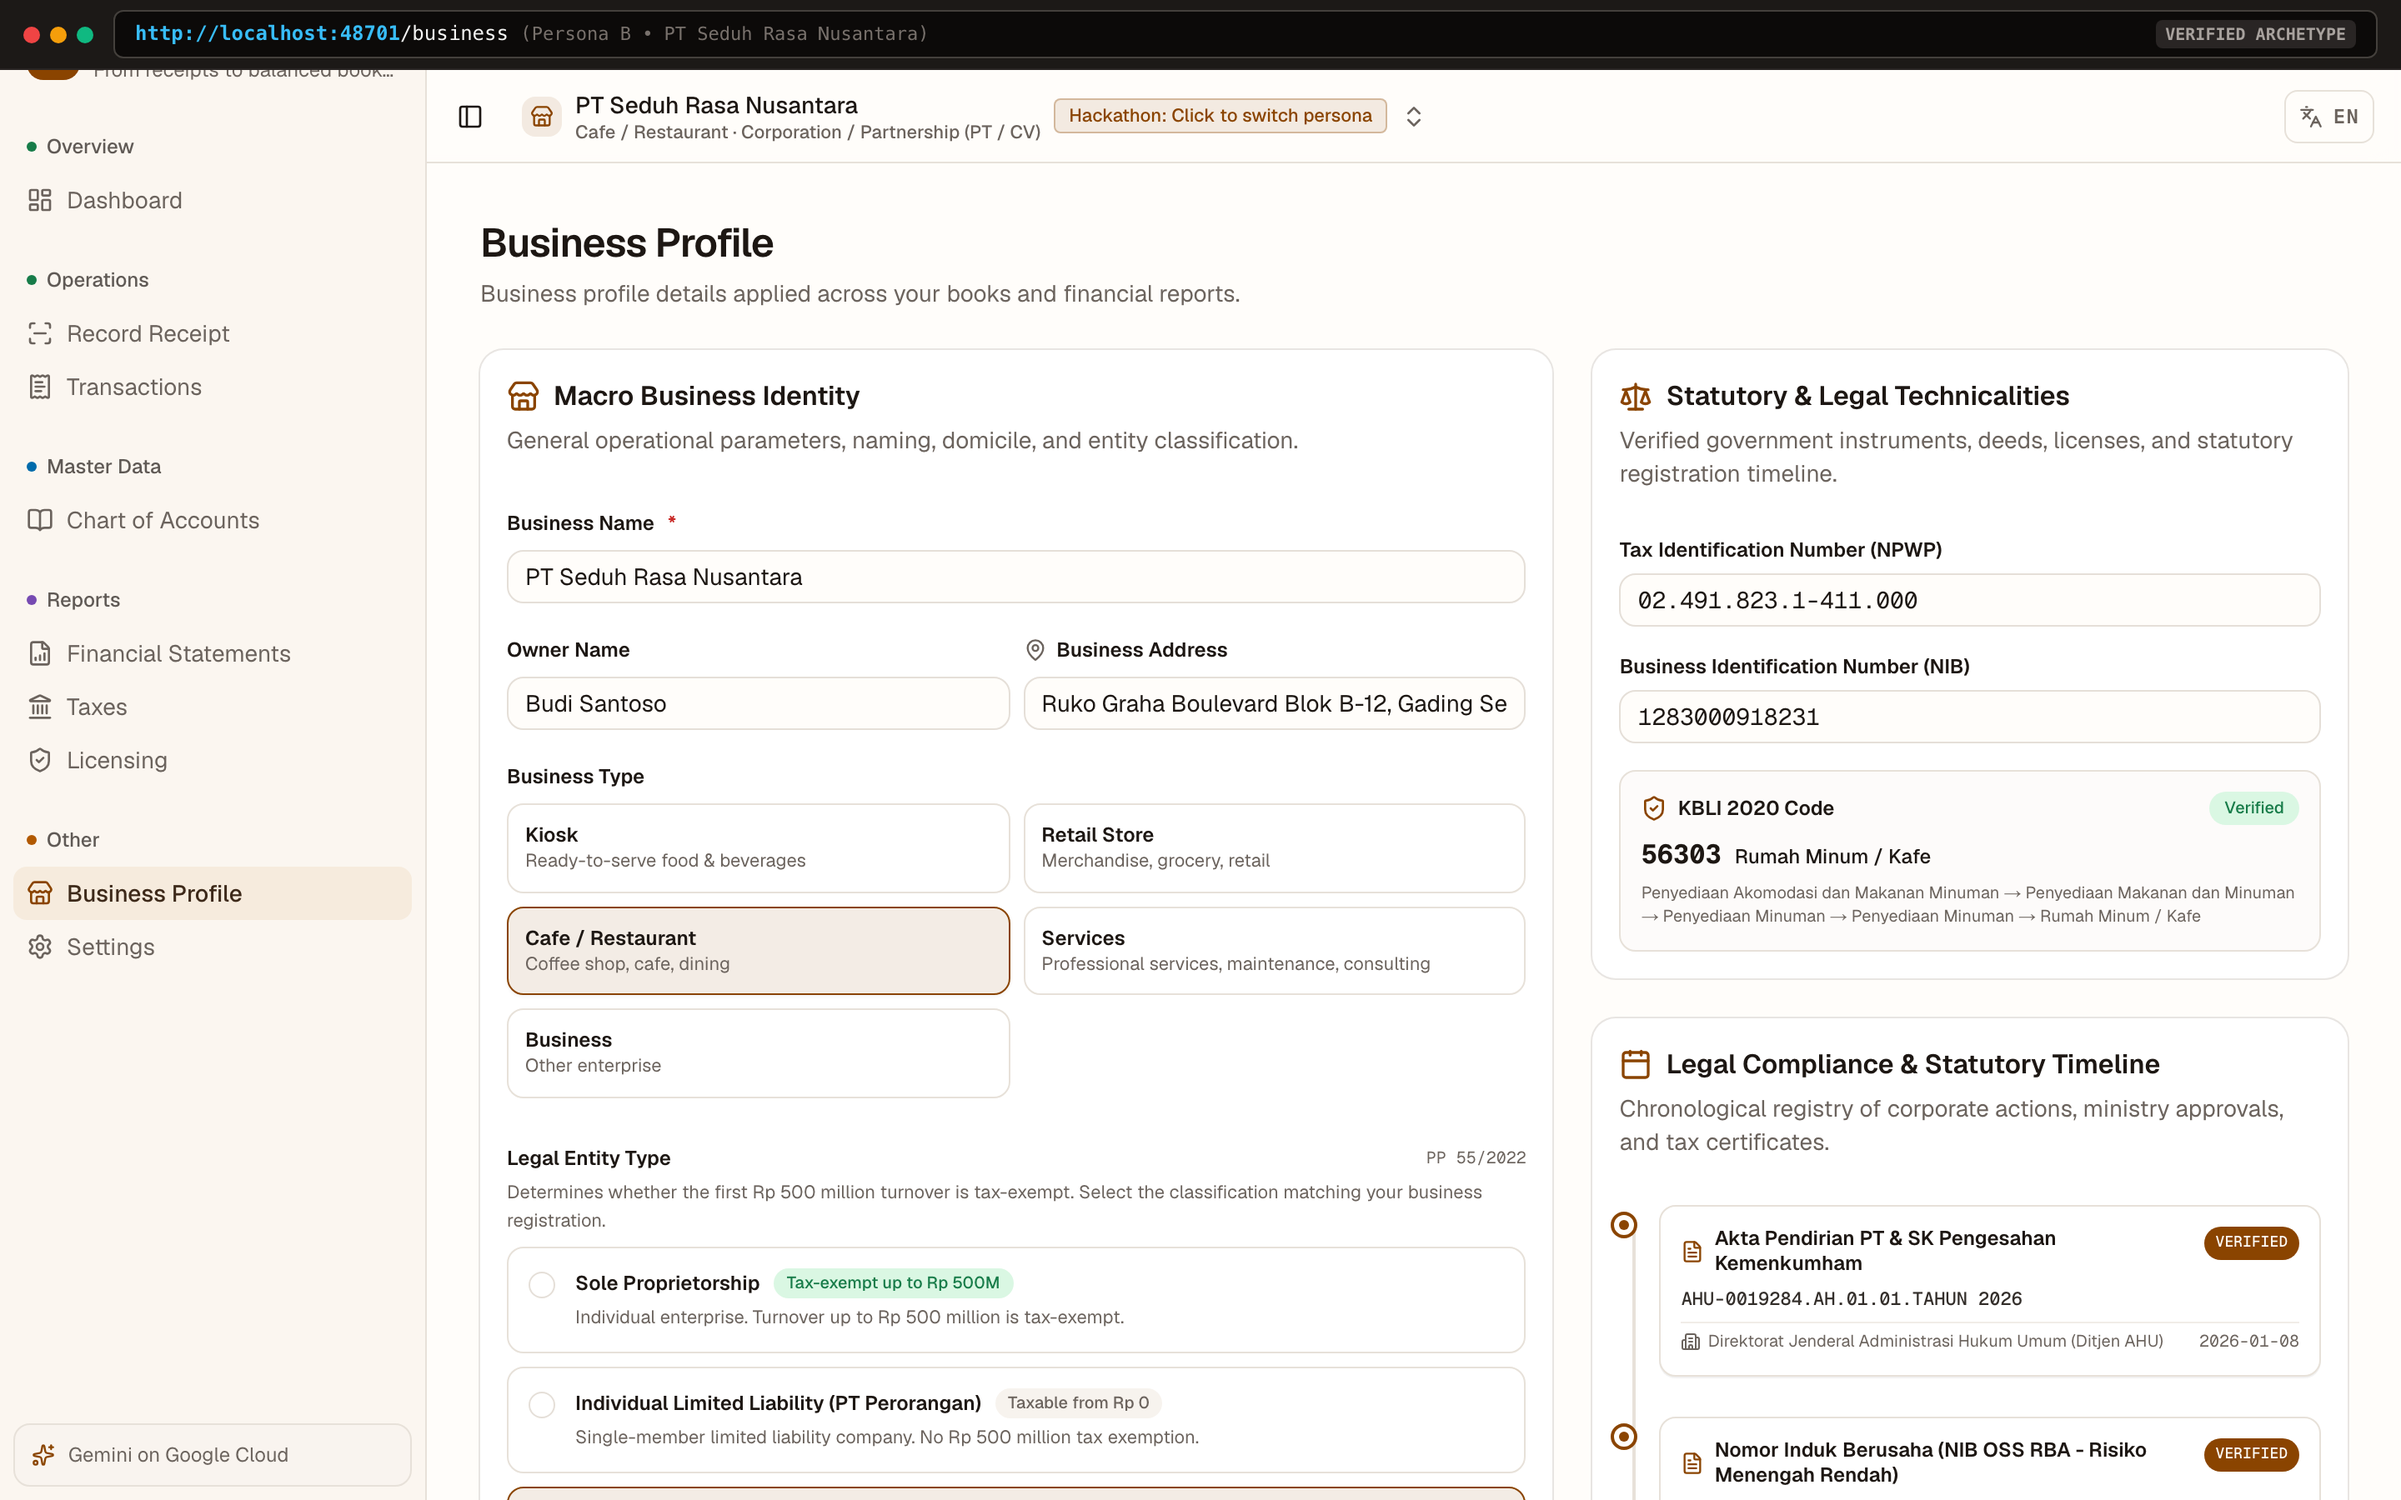
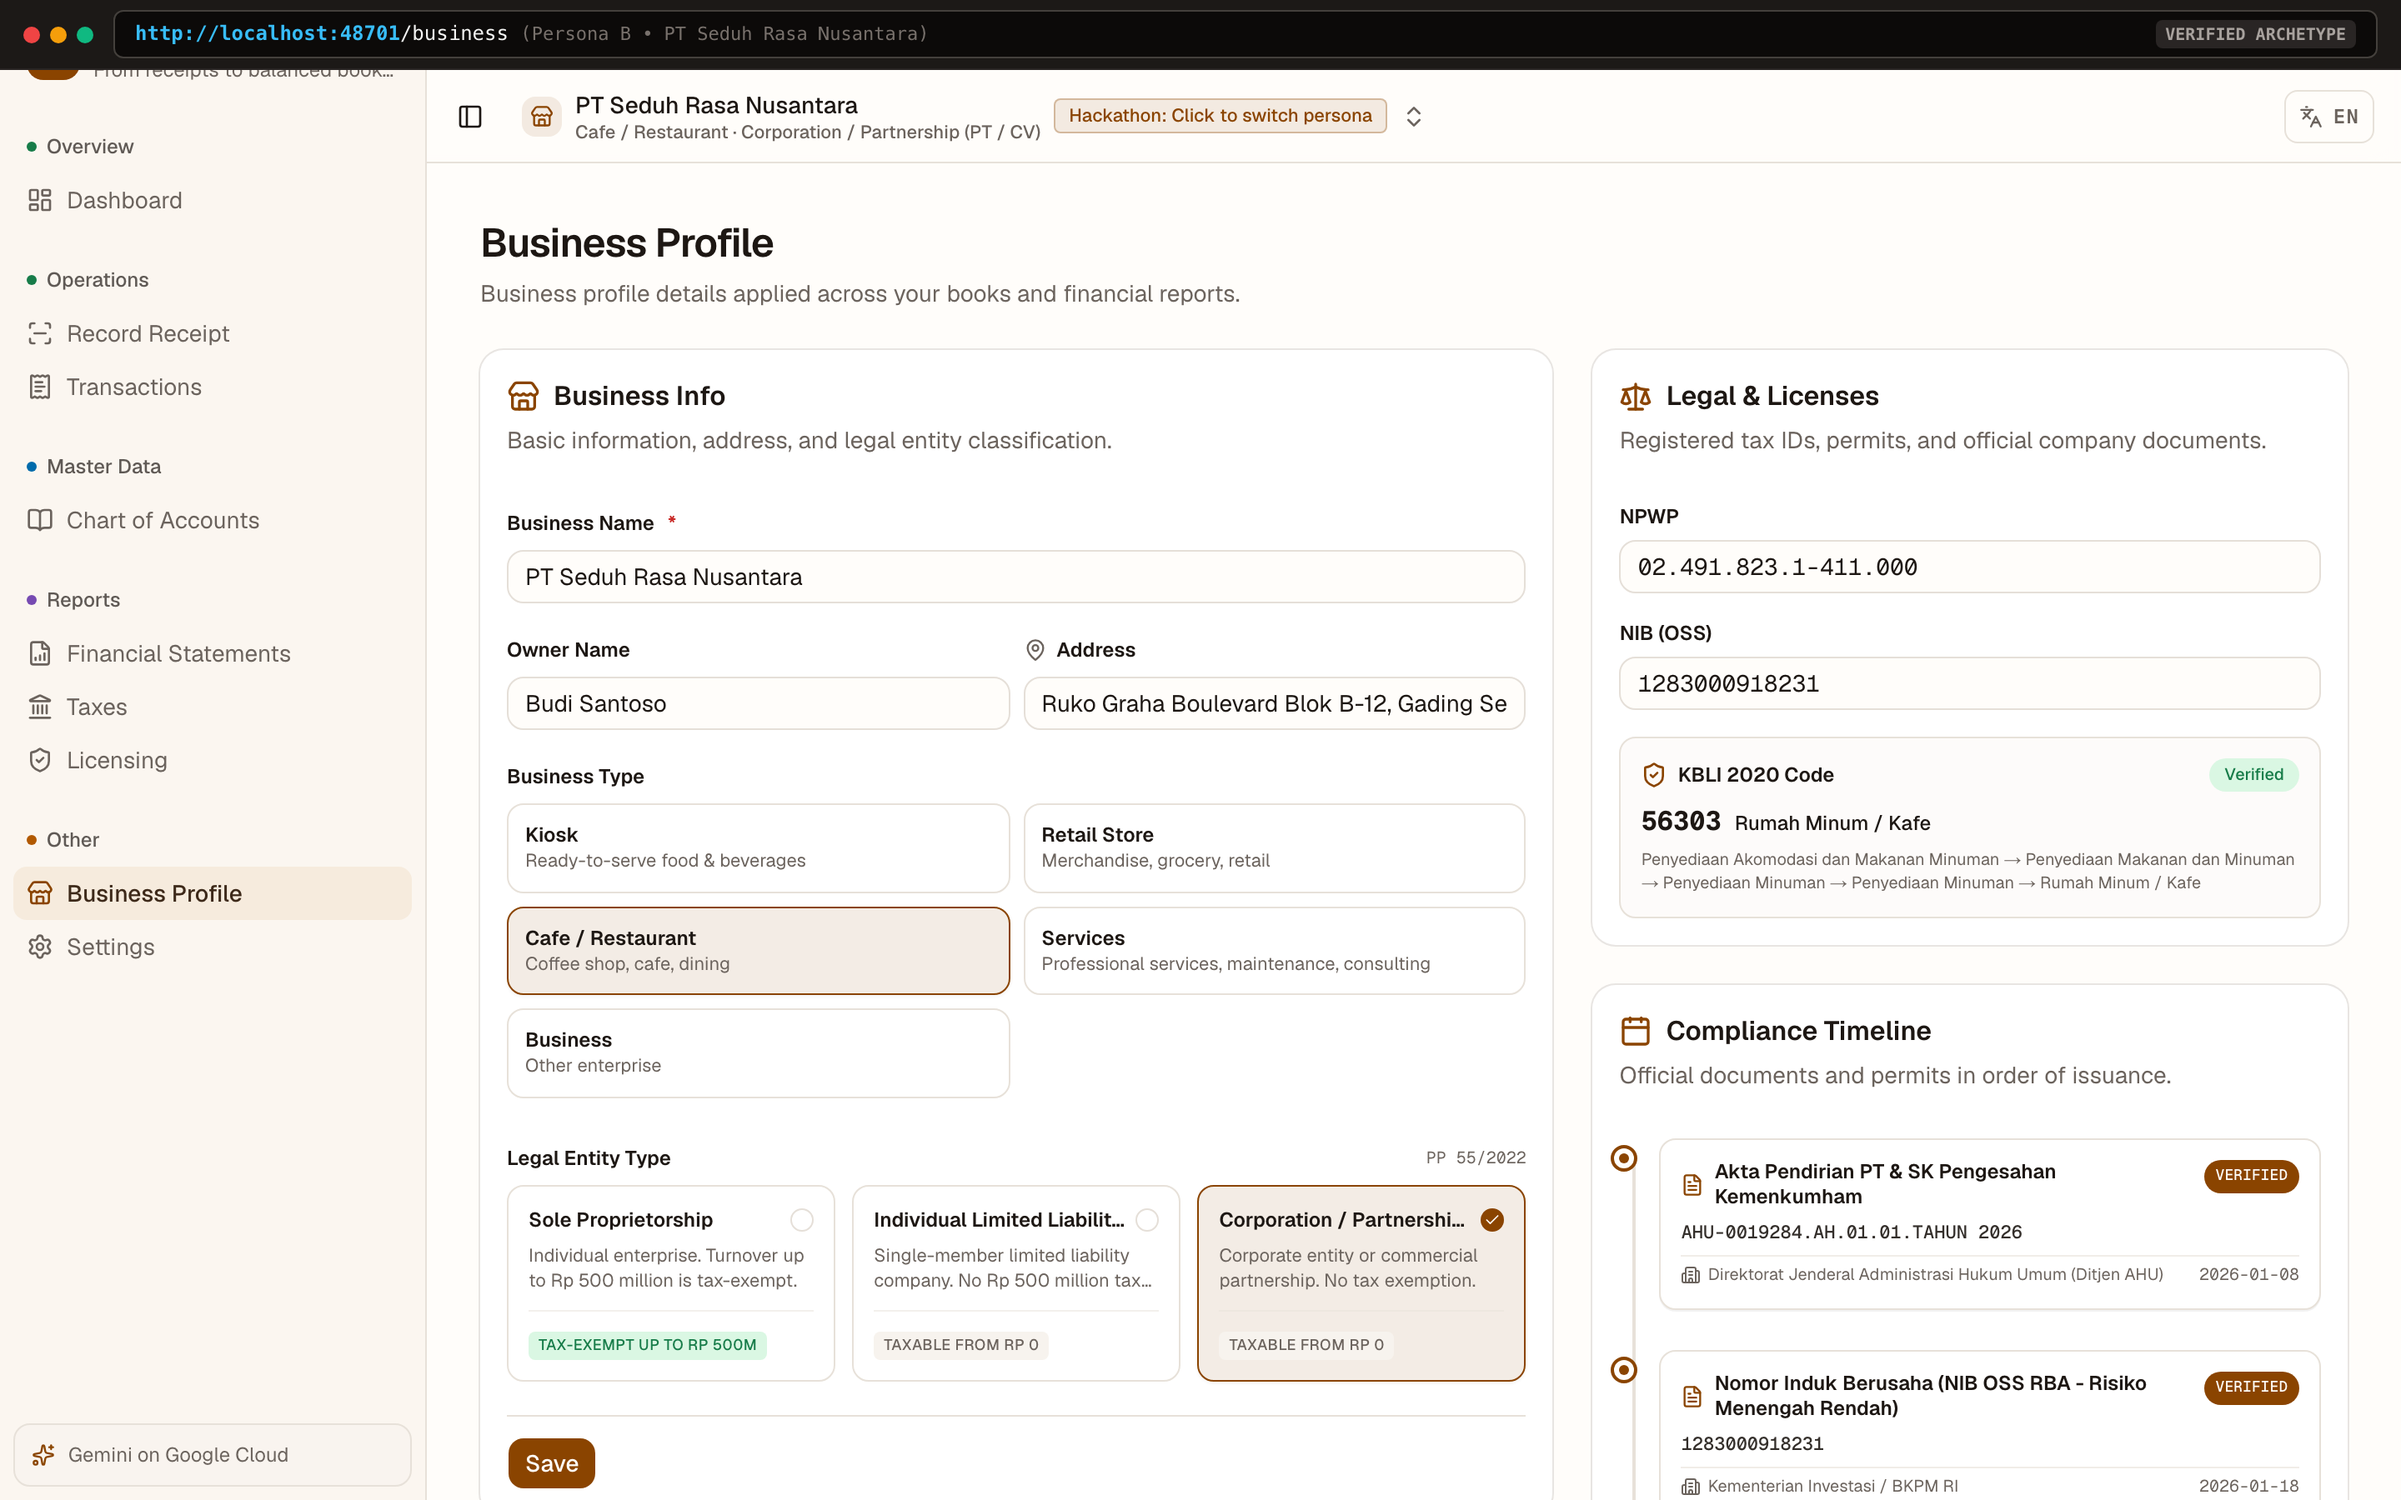
refactor(business): streamline copy and arrange legal entity options as horizontal desktop cards

diff --git a/web/src/app/(app)/business/page.tsx b/web/src/app/(app)/business/page.tsx
@@ -216,12 +216,9 @@ export default function UsahaPage() {
                   </Label>
                   <span className="text-[10px] text-muted-foreground font-mono">PP 55/2022</span>
                 </div>
-                <p className="-mt-1 text-[11px] text-muted-foreground leading-normal">
-                  {copy.usaha.entityHint}
-                </p>
                 <div
                   id="entity-group"
-                  className="grid gap-2"
+                  className="grid grid-cols-1 md:grid-cols-3 gap-2.5"
                   role="radiogroup"
                   aria-label={copy.usaha.entityLabel}
                 >
@@ -237,49 +234,48 @@ export default function UsahaPage() {
                         tabIndex={active ? 0 : -1}
                         onClick={() => setEntity(option.id)}
                         className={cn(
-                          "flex items-start gap-3 rounded-lg border p-3 text-left transition cursor-pointer",
+                          "flex flex-col justify-between rounded-lg border p-3 text-left transition cursor-pointer relative",
                           active
                             ? "border-primary bg-primary/10 shadow-xs"
                             : "hover:bg-muted/50 border-border bg-card",
                         )}
                       >
-                        <span
-                          className={cn(
-                            "mt-0.5 grid size-4 shrink-0 place-items-center rounded-full border",
-                            active ? "border-primary bg-primary" : "border-input",
-                          )}
-                        >
-                          {active && <Check className="size-3 text-primary-foreground" />}
-                        </span>
-                        <span className="min-w-0 flex-1">
-                          <span className="flex flex-wrap items-center gap-2">
-                            <span className="text-xs font-semibold">
+                        <div className="space-y-1.5">
+                          <div className="flex items-center justify-between gap-1">
+                            <span className="text-xs font-semibold line-clamp-1">
                               {copy.entityLabels?.[option.id] ?? option.label}
                             </span>
                             <span
                               className={cn(
-                                "rounded-full px-2 py-0.5 text-[10px] font-medium",
-                                option.exemption
-                                  ? "bg-tone-hijau-bg text-tone-hijau"
-                                  : "bg-muted text-muted-foreground",
+                                "grid size-3.5 shrink-0 place-items-center rounded-full border",
+                                active ? "border-primary bg-primary" : "border-input",
                               )}
                             >
-                              {option.exemption
-                                ? copy.usaha.entityExempt
-                                : copy.usaha.entityTaxed}
+                              {active && <Check className="size-2.5 text-primary-foreground" />}
                             </span>
-                          </span>
-                          <span className="mt-1 block text-[11px] text-muted-foreground">
+                          </div>
+                          <p className="text-[11px] text-muted-foreground leading-snug line-clamp-2">
                             {copy.usaha.entityHints?.[option.id] ?? option.hint}
+                          </p>
+                        </div>
+                        <div className="mt-2.5 pt-2 border-t border-border/50">
+                          <span
+                            className={cn(
+                              "inline-block rounded px-1.5 py-0.5 text-[9px] font-medium tracking-wide uppercase",
+                              option.exemption
+                                ? "bg-tone-hijau-bg text-tone-hijau"
+                                : "bg-muted text-muted-foreground",
+                            )}
+                          >
+                            {option.exemption
+                              ? copy.usaha.entityExempt
+                              : copy.usaha.entityTaxed}
                           </span>
-                        </span>
+                        </div>
                       </button>
                     );
                   })}
                 </div>
-                <p className="text-[10px] text-muted-foreground pt-1">
-                  {copy.usaha.entityCitation}
-                </p>
               </div>
 
               {/* Submit Buttons */}

diff --git a/web/src/lib/copy-en.ts b/web/src/lib/copy-en.ts
@@ -445,27 +445,27 @@ export const copyEn = {
     kbliNoneHint: "Configure in the Licensing section.",
     kbliInvalidated:
       "Business type changed; previously selected KBLI code was reset. Please reselect in Licensing.",
-    addressLabel: "Business Address",
+    addressLabel: "Address",
     addressPlaceholder: "Jl. Sudirman No. 10, Jakarta",
-    npwpLabel: "Tax Identification Number (NPWP)",
+    npwpLabel: "NPWP",
     npwpPlaceholder: "00.000.000.0-000.000",
-    nibLabel: "Business Identification Number (NIB)",
-    nibPlaceholder: "13-digit OSS RBA Number",
-    macroHeading: "Macro Business Identity",
-    macroSubtitle: "General operational parameters, naming, domicile, and entity classification.",
-    techHeading: "Statutory & Legal Technicalities",
-    techSubtitle: "Verified government instruments, deeds, licenses, and statutory registration timeline.",
-    timelineTitle: "Legal Compliance & Statutory Timeline",
-    timelineSubtitle: "Chronological registry of corporate actions, ministry approvals, and tax certificates.",
-    docType: "Document Type",
-    docNumber: "Reference Number",
-    docIssuer: "Issuing Authority",
-    docIssueDate: "Issued On",
-    docExpiry: "Valid Until",
+    nibLabel: "NIB (OSS)",
+    nibPlaceholder: "13-digit OSS RBA number",
+    macroHeading: "Business Info",
+    macroSubtitle: "Basic information, address, and legal entity classification.",
+    techHeading: "Legal & Licenses",
+    techSubtitle: "Registered tax IDs, permits, and official company documents.",
+    timelineTitle: "Compliance Timeline",
+    timelineSubtitle: "Official documents and permits in order of issuance.",
+    docType: "Document",
+    docNumber: "Number",
+    docIssuer: "Issuer",
+    docIssueDate: "Issued",
+    docExpiry: "Expires",
     statusVerified: "Verified",
     statusActive: "Active",
     statusInReview: "In Review",
-    emptyDocs: "No statutory documents filed. Complete corporate registration or select a verified archetype.",
+    emptyDocs: "No documents added yet. Select a demo persona or add licenses.",
   },
 
   // ── Landing page ──────────────────────────────────────────────────────────

diff --git a/web/src/lib/copy-id.ts b/web/src/lib/copy-id.ts
@@ -450,27 +450,27 @@ export const copyId = {
     kbliNoneHint: "Tentukan di halaman Perizinan.",
     kbliInvalidated:
       "Jenis usaha berubah, jadi kode KBLI sebelumnya dihapus. Tentukan ulang di Perizinan.",
-    addressLabel: "Alamat Usaha",
+    addressLabel: "Alamat",
     addressPlaceholder: "Jl. Sudirman No. 10, Jakarta",
-    npwpLabel: "Nomor Pokok Wajib Pajak (NPWP)",
+    npwpLabel: "NPWP",
     npwpPlaceholder: "00.000.000.0-000.000",
-    nibLabel: "Nomor Induk Berusaha (NIB)",
-    nibPlaceholder: "13 Digit NIB OSS RBA",
-    macroHeading: "Profil Makro Usaha",
-    macroSubtitle: "Parameter operasional umum, penamaan, domisili, dan klasifikasi badan usaha.",
-    techHeading: "Legalitas & Teknis Regulasi",
-    techSubtitle: "Dokumen hukum resmi terverifikasi, akta pendirian, sertifikasi, dan lini masa perizinan.",
-    timelineTitle: "Lini Masa Kepatuhan Hukum & Regulasi",
-    timelineSubtitle: "Catatan kronologis penerbitan izin, pengesahan kementerian, dan sertifikasi operasional.",
-    docType: "Jenis Dokumen",
-    docNumber: "Nomor Surat / SK",
-    docIssuer: "Instansi Penerbit",
+    nibLabel: "NIB (OSS)",
+    nibPlaceholder: "13 digit NIB OSS RBA",
+    macroHeading: "Informasi Usaha",
+    macroSubtitle: "Data dasar, alamat operasional, dan bentuk badan usaha.",
+    techHeading: "Legalitas & Izin",
+    techSubtitle: "Nomor pajak, izin berusaha, dan dokumen resmi.",
+    timelineTitle: "Lini Masa Dokumen",
+    timelineSubtitle: "Urutan dokumen dan perizinan resmi yang diterbitkan.",
+    docType: "Dokumen",
+    docNumber: "Nomor",
+    docIssuer: "Penerbit",
     docIssueDate: "Tanggal Terbit",
-    docExpiry: "Masa Berlaku",
+    docExpiry: "Berlaku Hingga",
     statusVerified: "Terverifikasi",
     statusActive: "Aktif",
-    statusInReview: "Dalam Proses",
-    emptyDocs: "Belum ada dokumen legalitas terdaftar. Lengkapi pendaftaran perizinan atau pilih arketipe terverifikasi.",
+    statusInReview: "Proses",
+    emptyDocs: "Belum ada dokumen. Pilih persona demo atau lengkapi di Perizinan.",
   },
 
   // ── Halaman muka (landing) ────────────────────────────────────────────────
